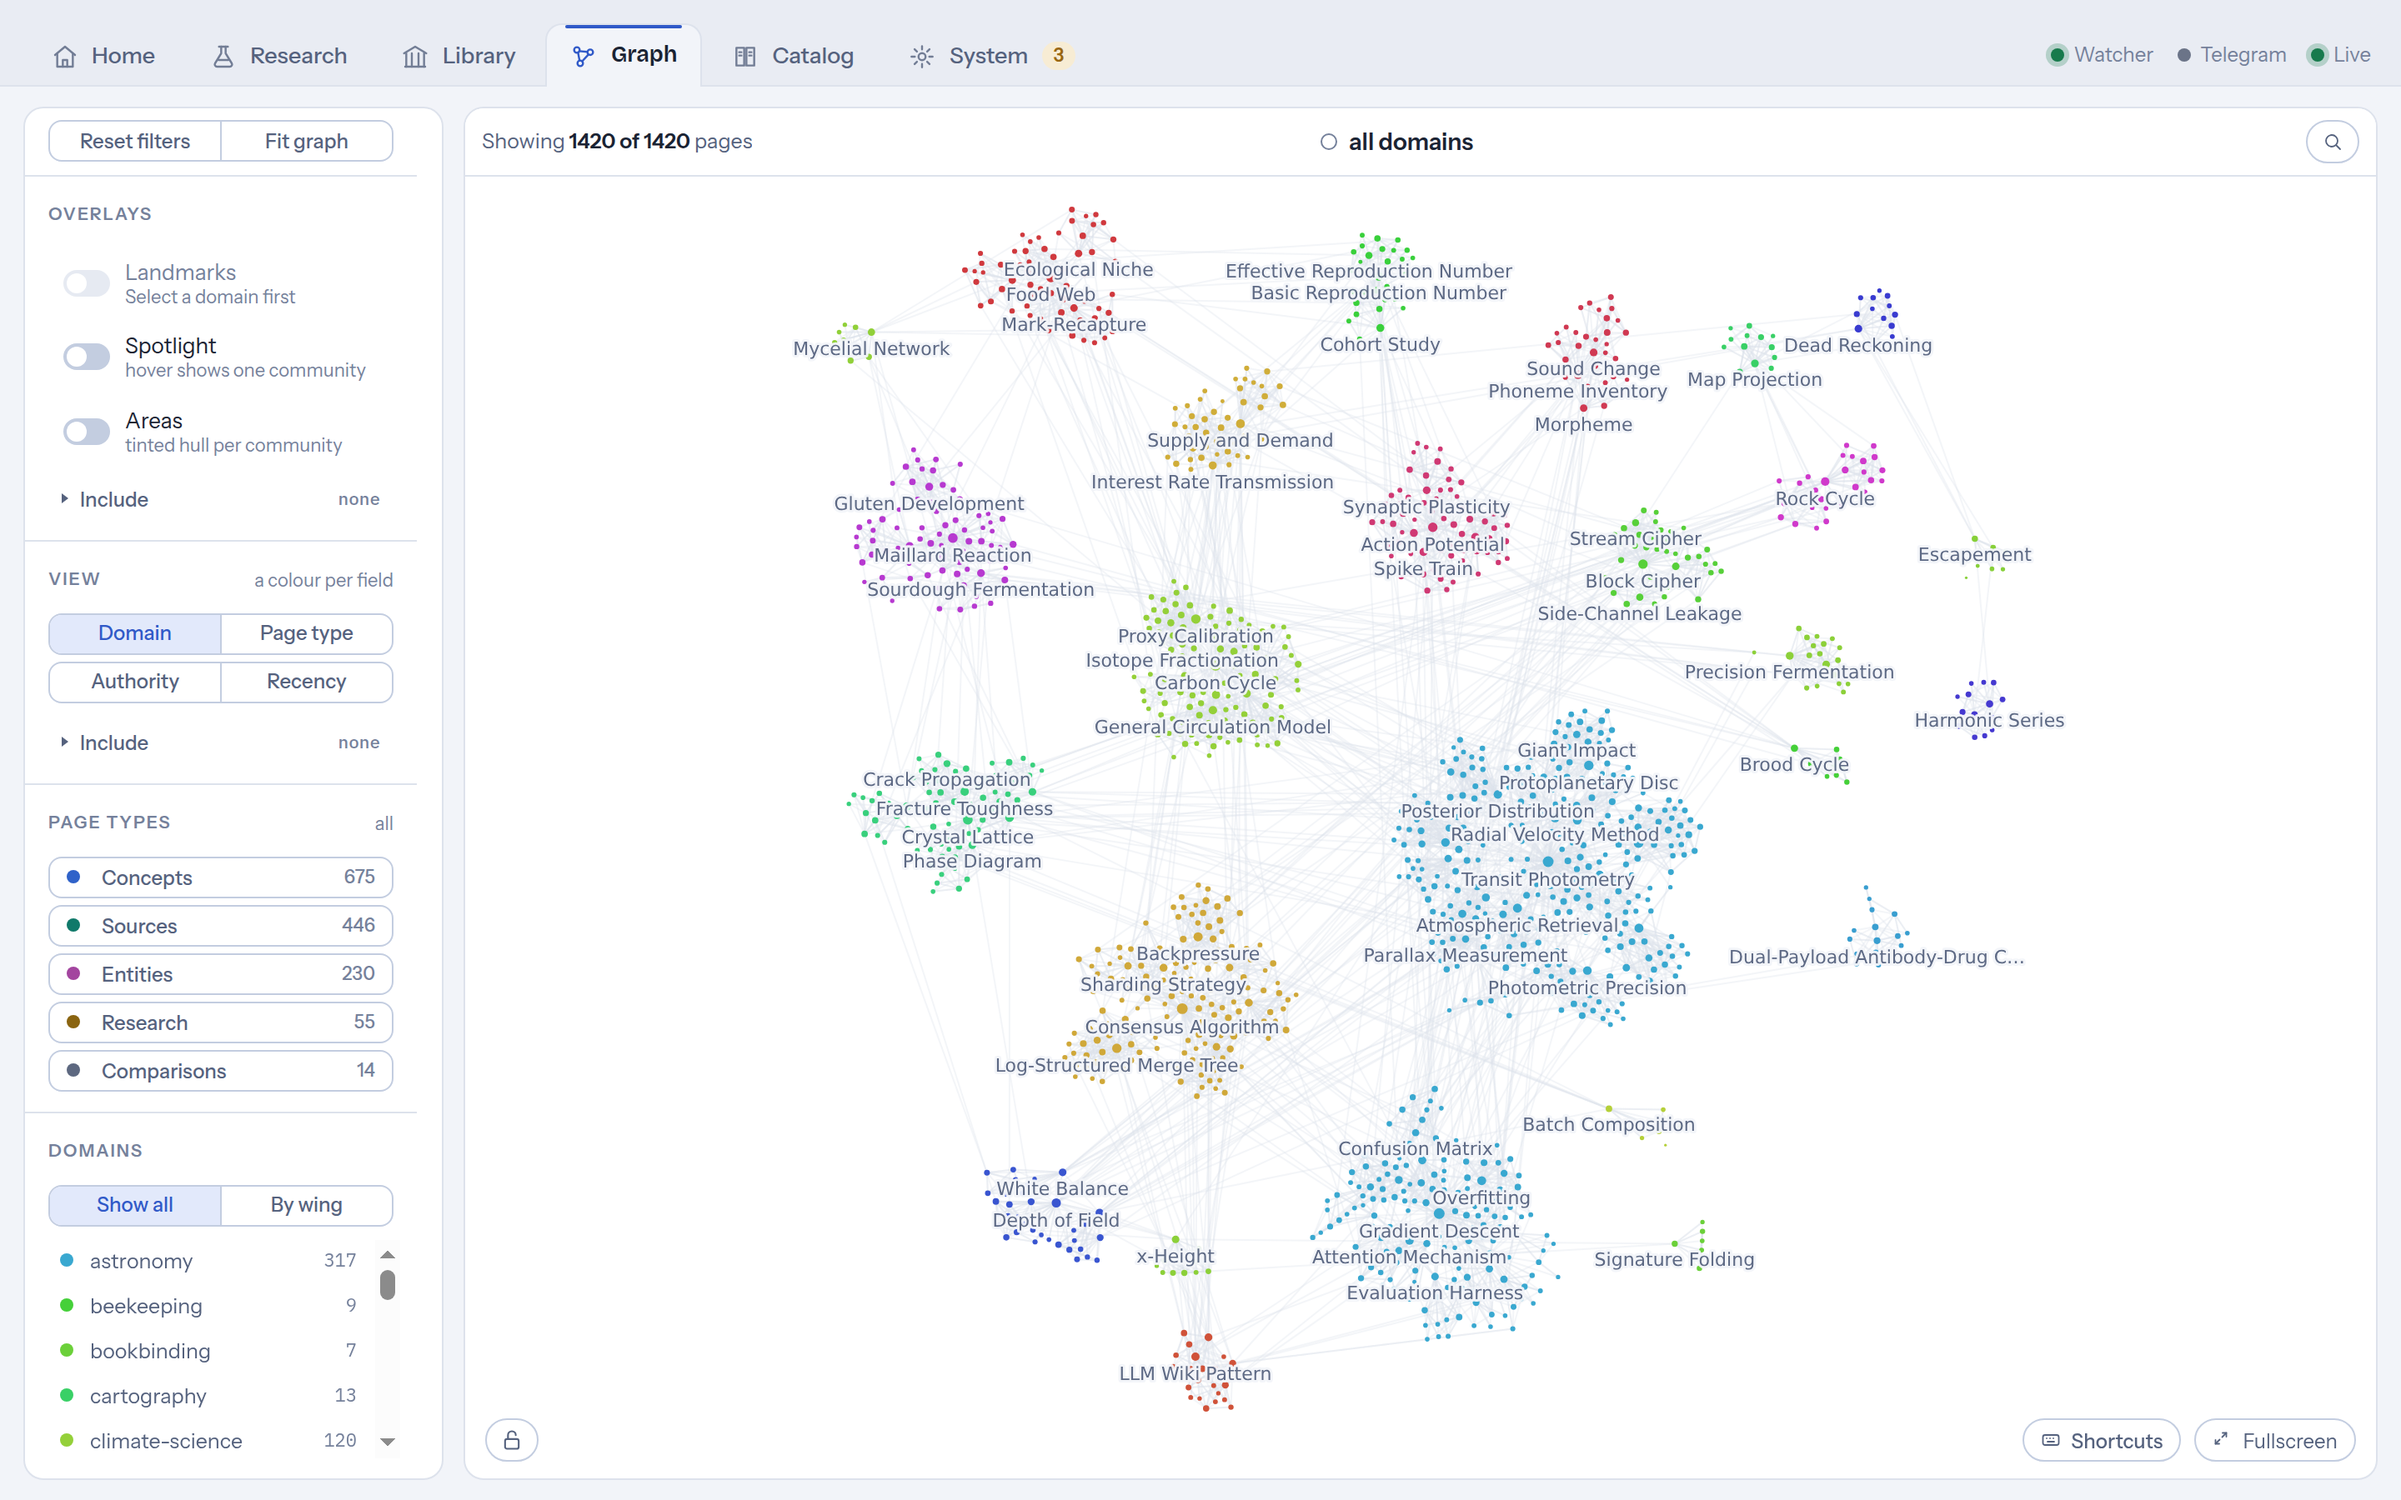
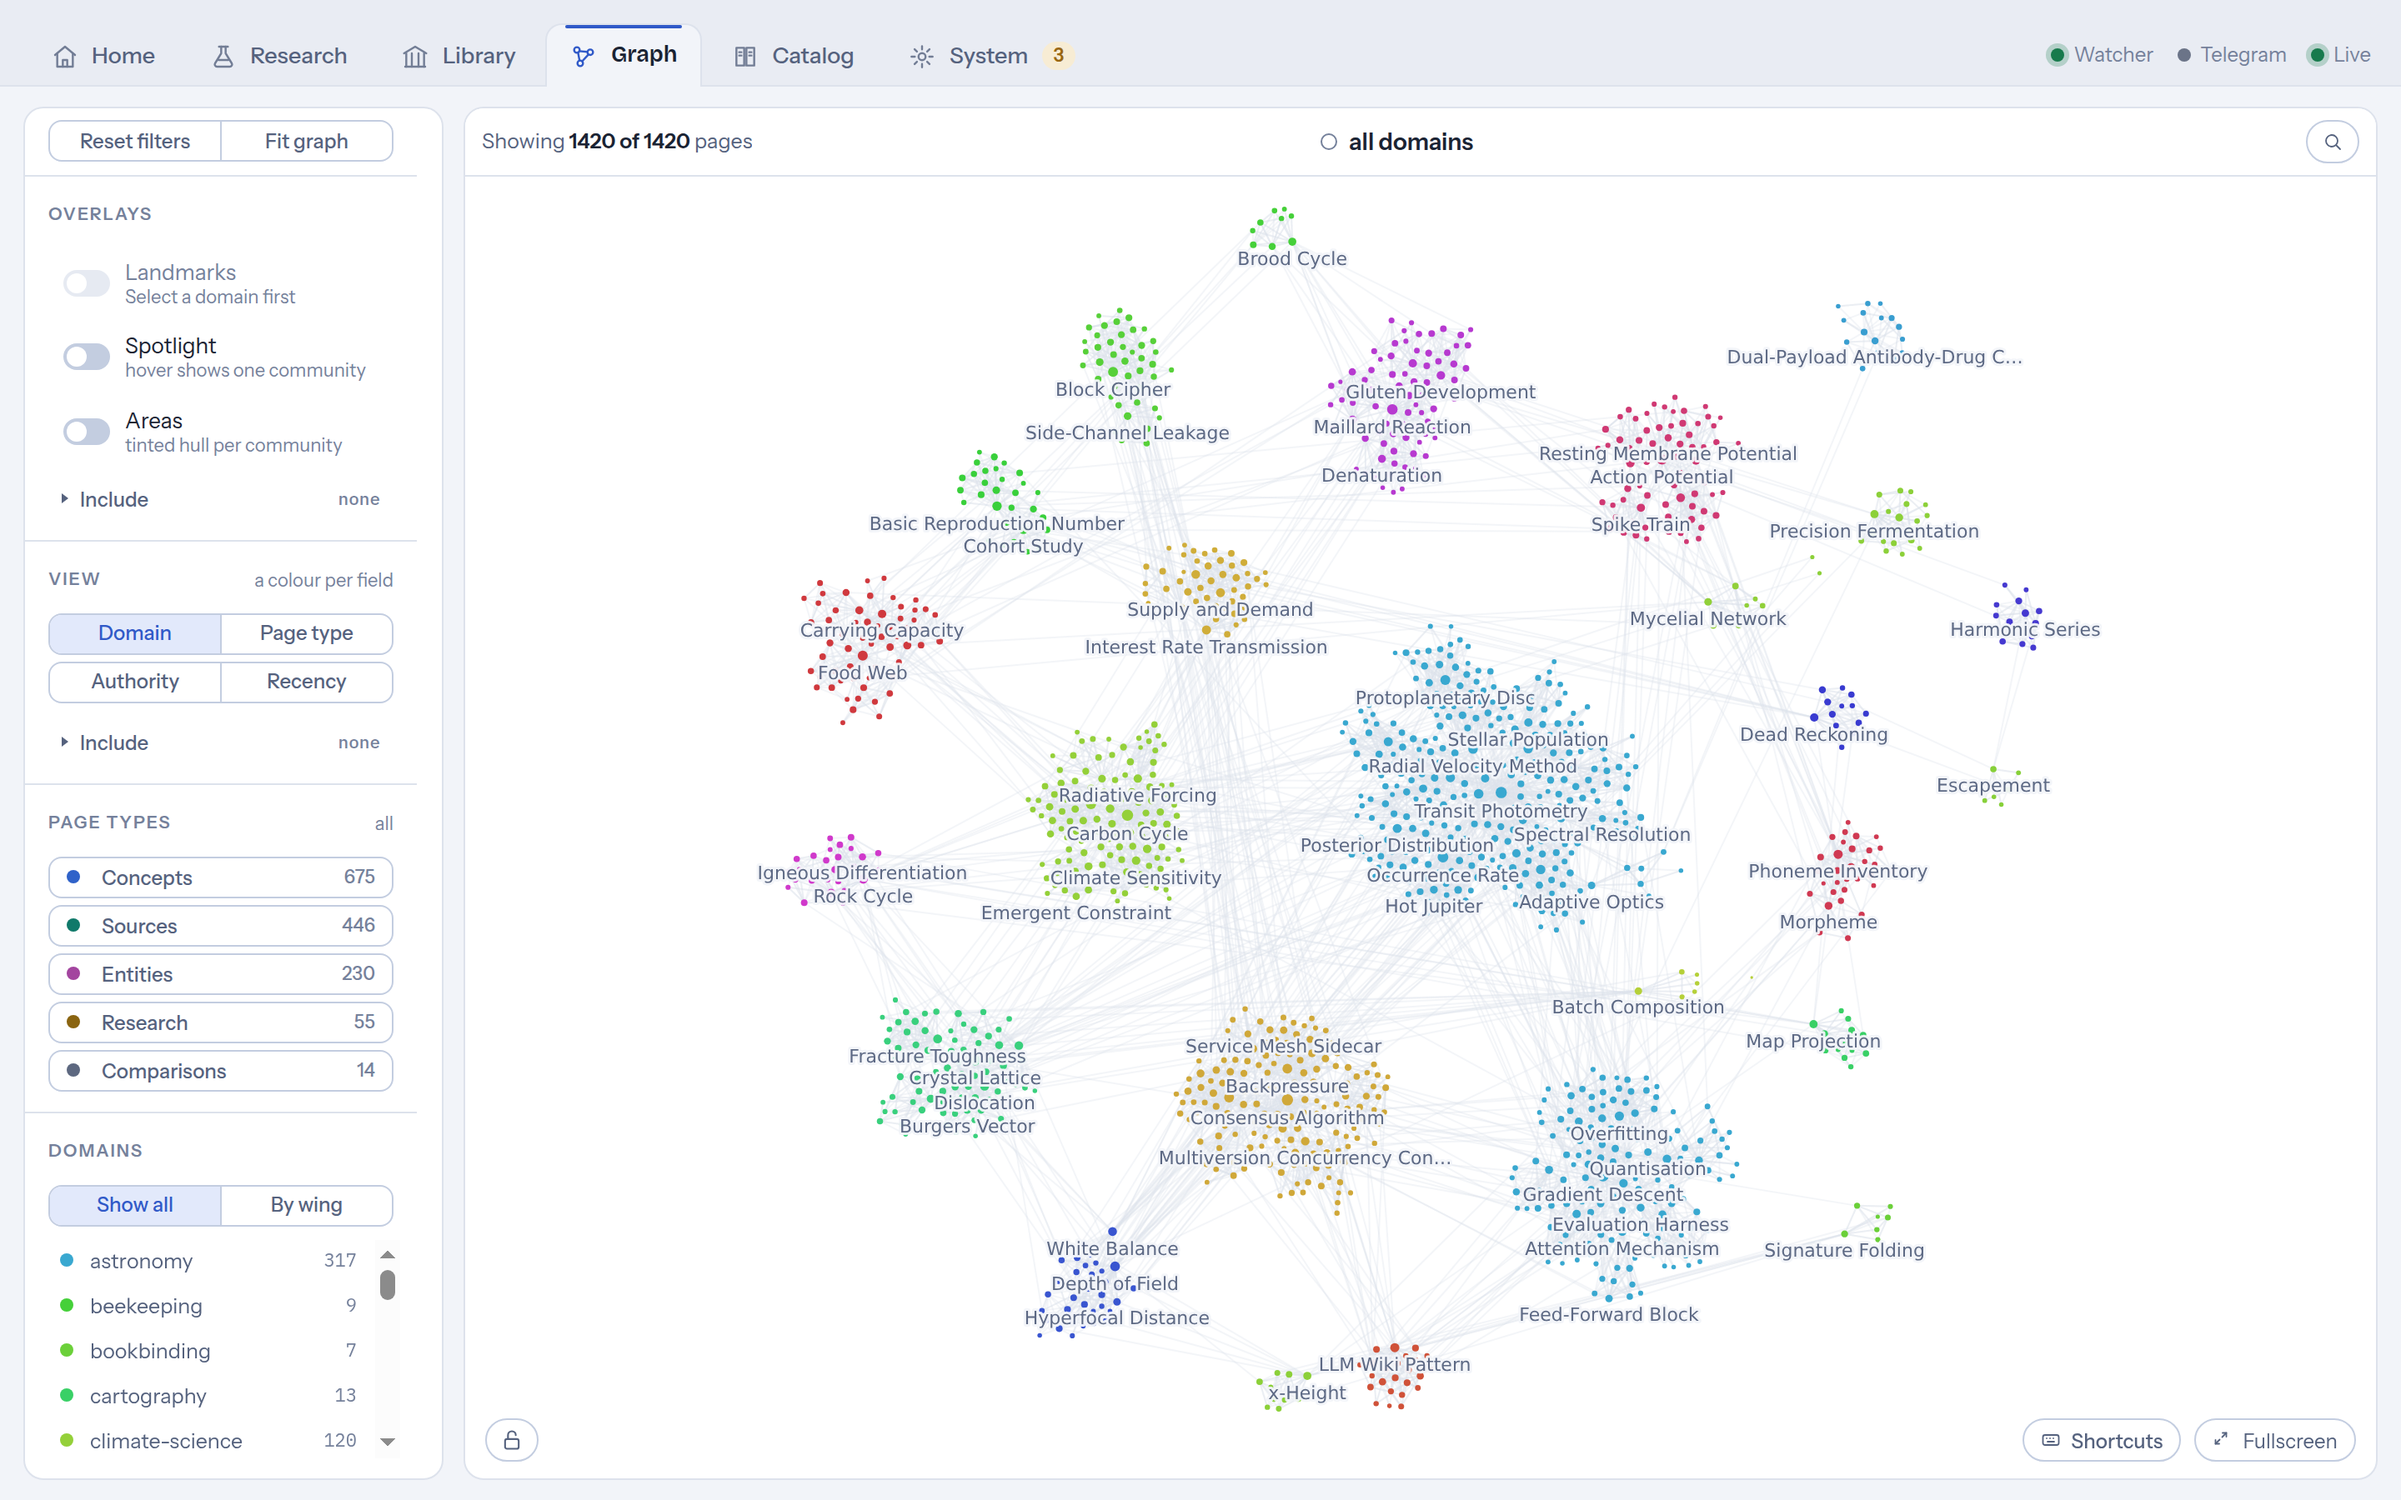
fix(demo): landmarks of every page type, not only concepts
The deployed demo's Landmarks overlay listed concepts only, 174 of its 175 landmarks, where the
real vault's are 60 % concepts, 18 % sources, 14 % entities and 8 % open questions. A landmark is
a page many others link to, and in the generator only concepts ever were.

Each area now has a key document, a review of its hub (the first area's is the domain's
handbook), that most of its concepts name, a first entity most of them cite, and its open
questions linked from its pages; each domain has two flagship entities and a first question
linked from across it. The concept-to-concept links were thinned to keep the density. Now 67 %
concepts, 13 % sources, 14 % entities, 6 % questions; 6.2 links a page; 34 areas, all with a
caption of their own. Screenshots re-shot.

diff --git a/docs/tasks/TASKS-DEMO.md b/docs/tasks/TASKS-DEMO.md
@@ -197,6 +197,15 @@ cannot carry, 218 pages nothing linked to. It never showed, because nothing ever
         host's git hooks, signing and identity out of the demo's history.
       The host's side (refresh no longer as root, unit hardening, Caddy, sandboxed build) lives
       in the host's notes, tested on the box beside the running demo.
+- [x] **Landmarks of every page type** (2026-09-25, found on the deployed demo): its landmarks were
+      concepts only, 174 of 175, where the real vault's are 60 % concepts, 18 % sources, 14 %
+      entities and 8 % open questions. A landmark is a page many others link to, and only concepts
+      ever were. Each area now has a key document (a review of its hub; the first area's is the
+      domain's handbook) that most of its concepts name, a first entity most of them cite, and its
+      open questions linked from its pages; each domain has two flagship entities and a first
+      question linked from across it. The concept-to-concept links were thinned to keep the
+      density: now 67 % concepts, 13 % sources, 14 % entities, 6 % questions, 6.2 links a page,
+      a most-linked page with 114 inbound links.
 - [x] **Delivered 2026-09-25.** Merged as LibrisVault#18 (merge commit `81db6b0`, tag
       `demo-system-and-vault-2026-09-25` on both remotes), both CI runs green. The hosted demo
       was updated the same afternoon to that commit, built in a sandbox, reseeded by the new

diff --git a/CHANGELOG.md b/CHANGELOG.md
@@ -23,7 +23,8 @@ around a page the rest leads back to, with links across domains, source pages in
 five months of history, and the vault's own conventions kept (its validator found 5,096 breaches
 in the old one). Before, every page linked to its next few neighbours, which left the Landmarks
 overlay nothing to rank and Areas one community per domain. The seed also plants a dozen defects
-and records what the real validator finds, so the standing defect list has rows to show, and it
+and records what the real validator finds, so the standing defect list has rows to show, links its key documents, entities and open
+questions the way a real vault does, so the Landmarks overlay holds every page type, and it
 does the vault's first-start setup itself, so a read-only demo starts without a warning. All
 sixteen screenshots are re-shot from it. The seed takes about 11 s instead of 7.
 

diff --git a/docs/screenshots.md b/docs/screenshots.md
@@ -43,7 +43,7 @@ restore it. A synthesis page is what the research function produces, and an inve
 shape where the real one shows an argument. Those pages name real papers, patents and companies, all
 public, none from anyone's private notes.
 
-The vault is deliberately neither small nor tidy: ~1,400 pages, ~7,500 links, 25 domains with one
+The vault is deliberately neither small nor tidy: ~1,400 pages, ~8,800 links, 25 domains with one
 far deeper than the rest, each cut into sub-areas around a page the rest leads back to, about 6 %
 of the links crossing a domain, a long tail of tags that occur once, two orphans, stubs and gaps
 left in, pages dated in reading order rather than build order. Those numbers follow a real vault of
